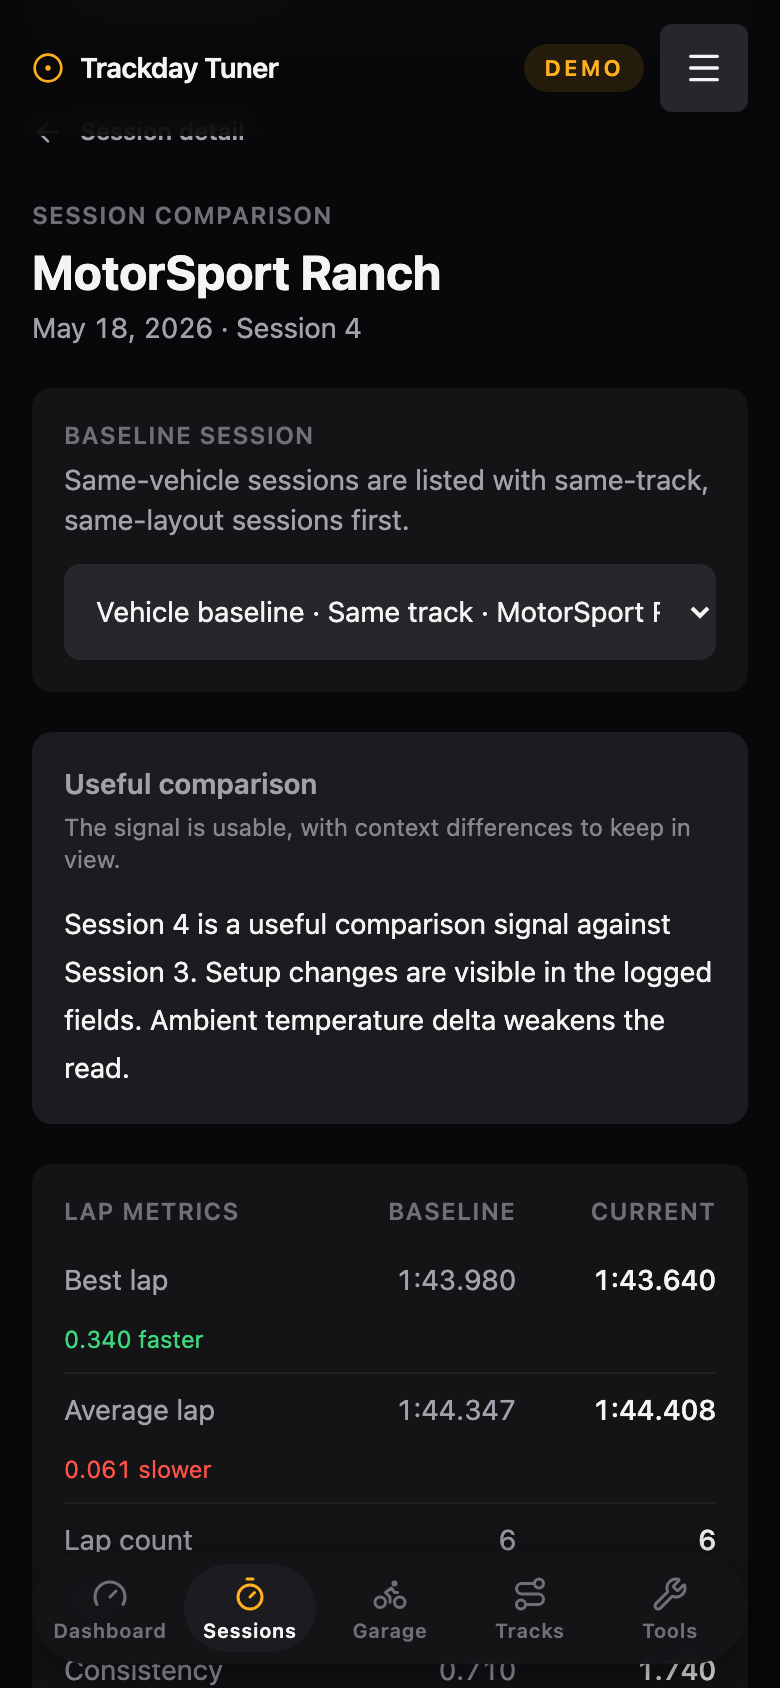
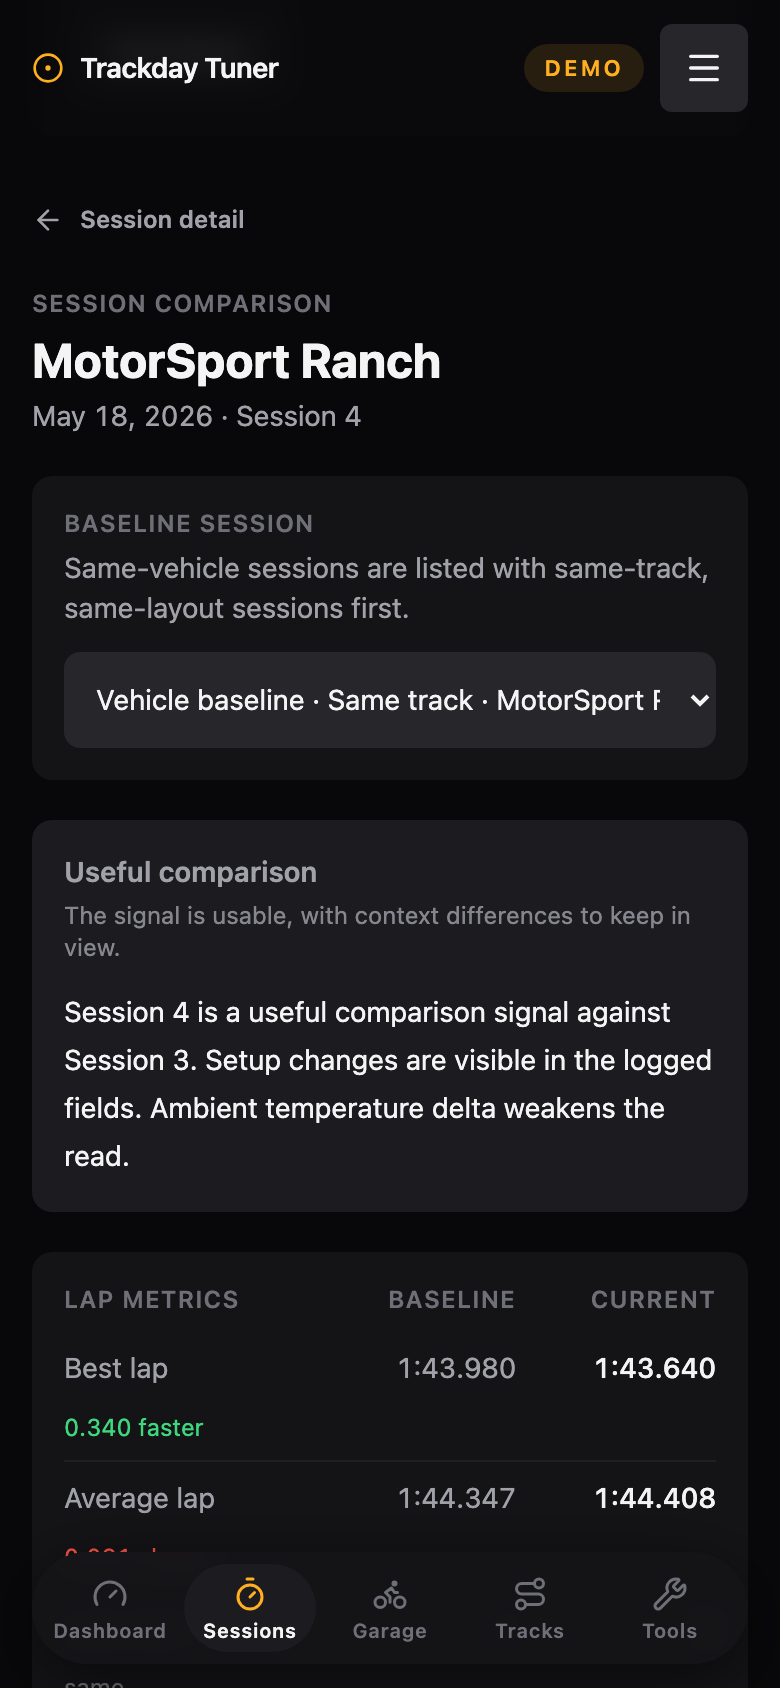
no-mistakes(review): Recapture dashboard and compare screenshots without clipped text

diff --git a/README.md b/README.md
@@ -16,7 +16,7 @@ Engineer answer and a service book. Nothing can be saved in demo mode, and
 
 <table>
   <tr>
-    <td><img src="docs/screenshots/dashboard.png" alt="Dashboard with recent sessions and a service reminder" width="160"></td>
+    <td><img src="docs/screenshots/dashboard.png" alt="Dashboard in demo mode with the garage and recent sessions" width="160"></td>
     <td><img src="docs/screenshots/setup-changes.png" alt="Setup changes against the previous session and the vehicle baseline" width="160"></td>
     <td><img src="docs/screenshots/compare.png" alt="Session comparison with lap metrics" width="160"></td>
     <td><img src="docs/screenshots/race-engineer.png" alt="Race Engineer recommendation" width="160"></td>
